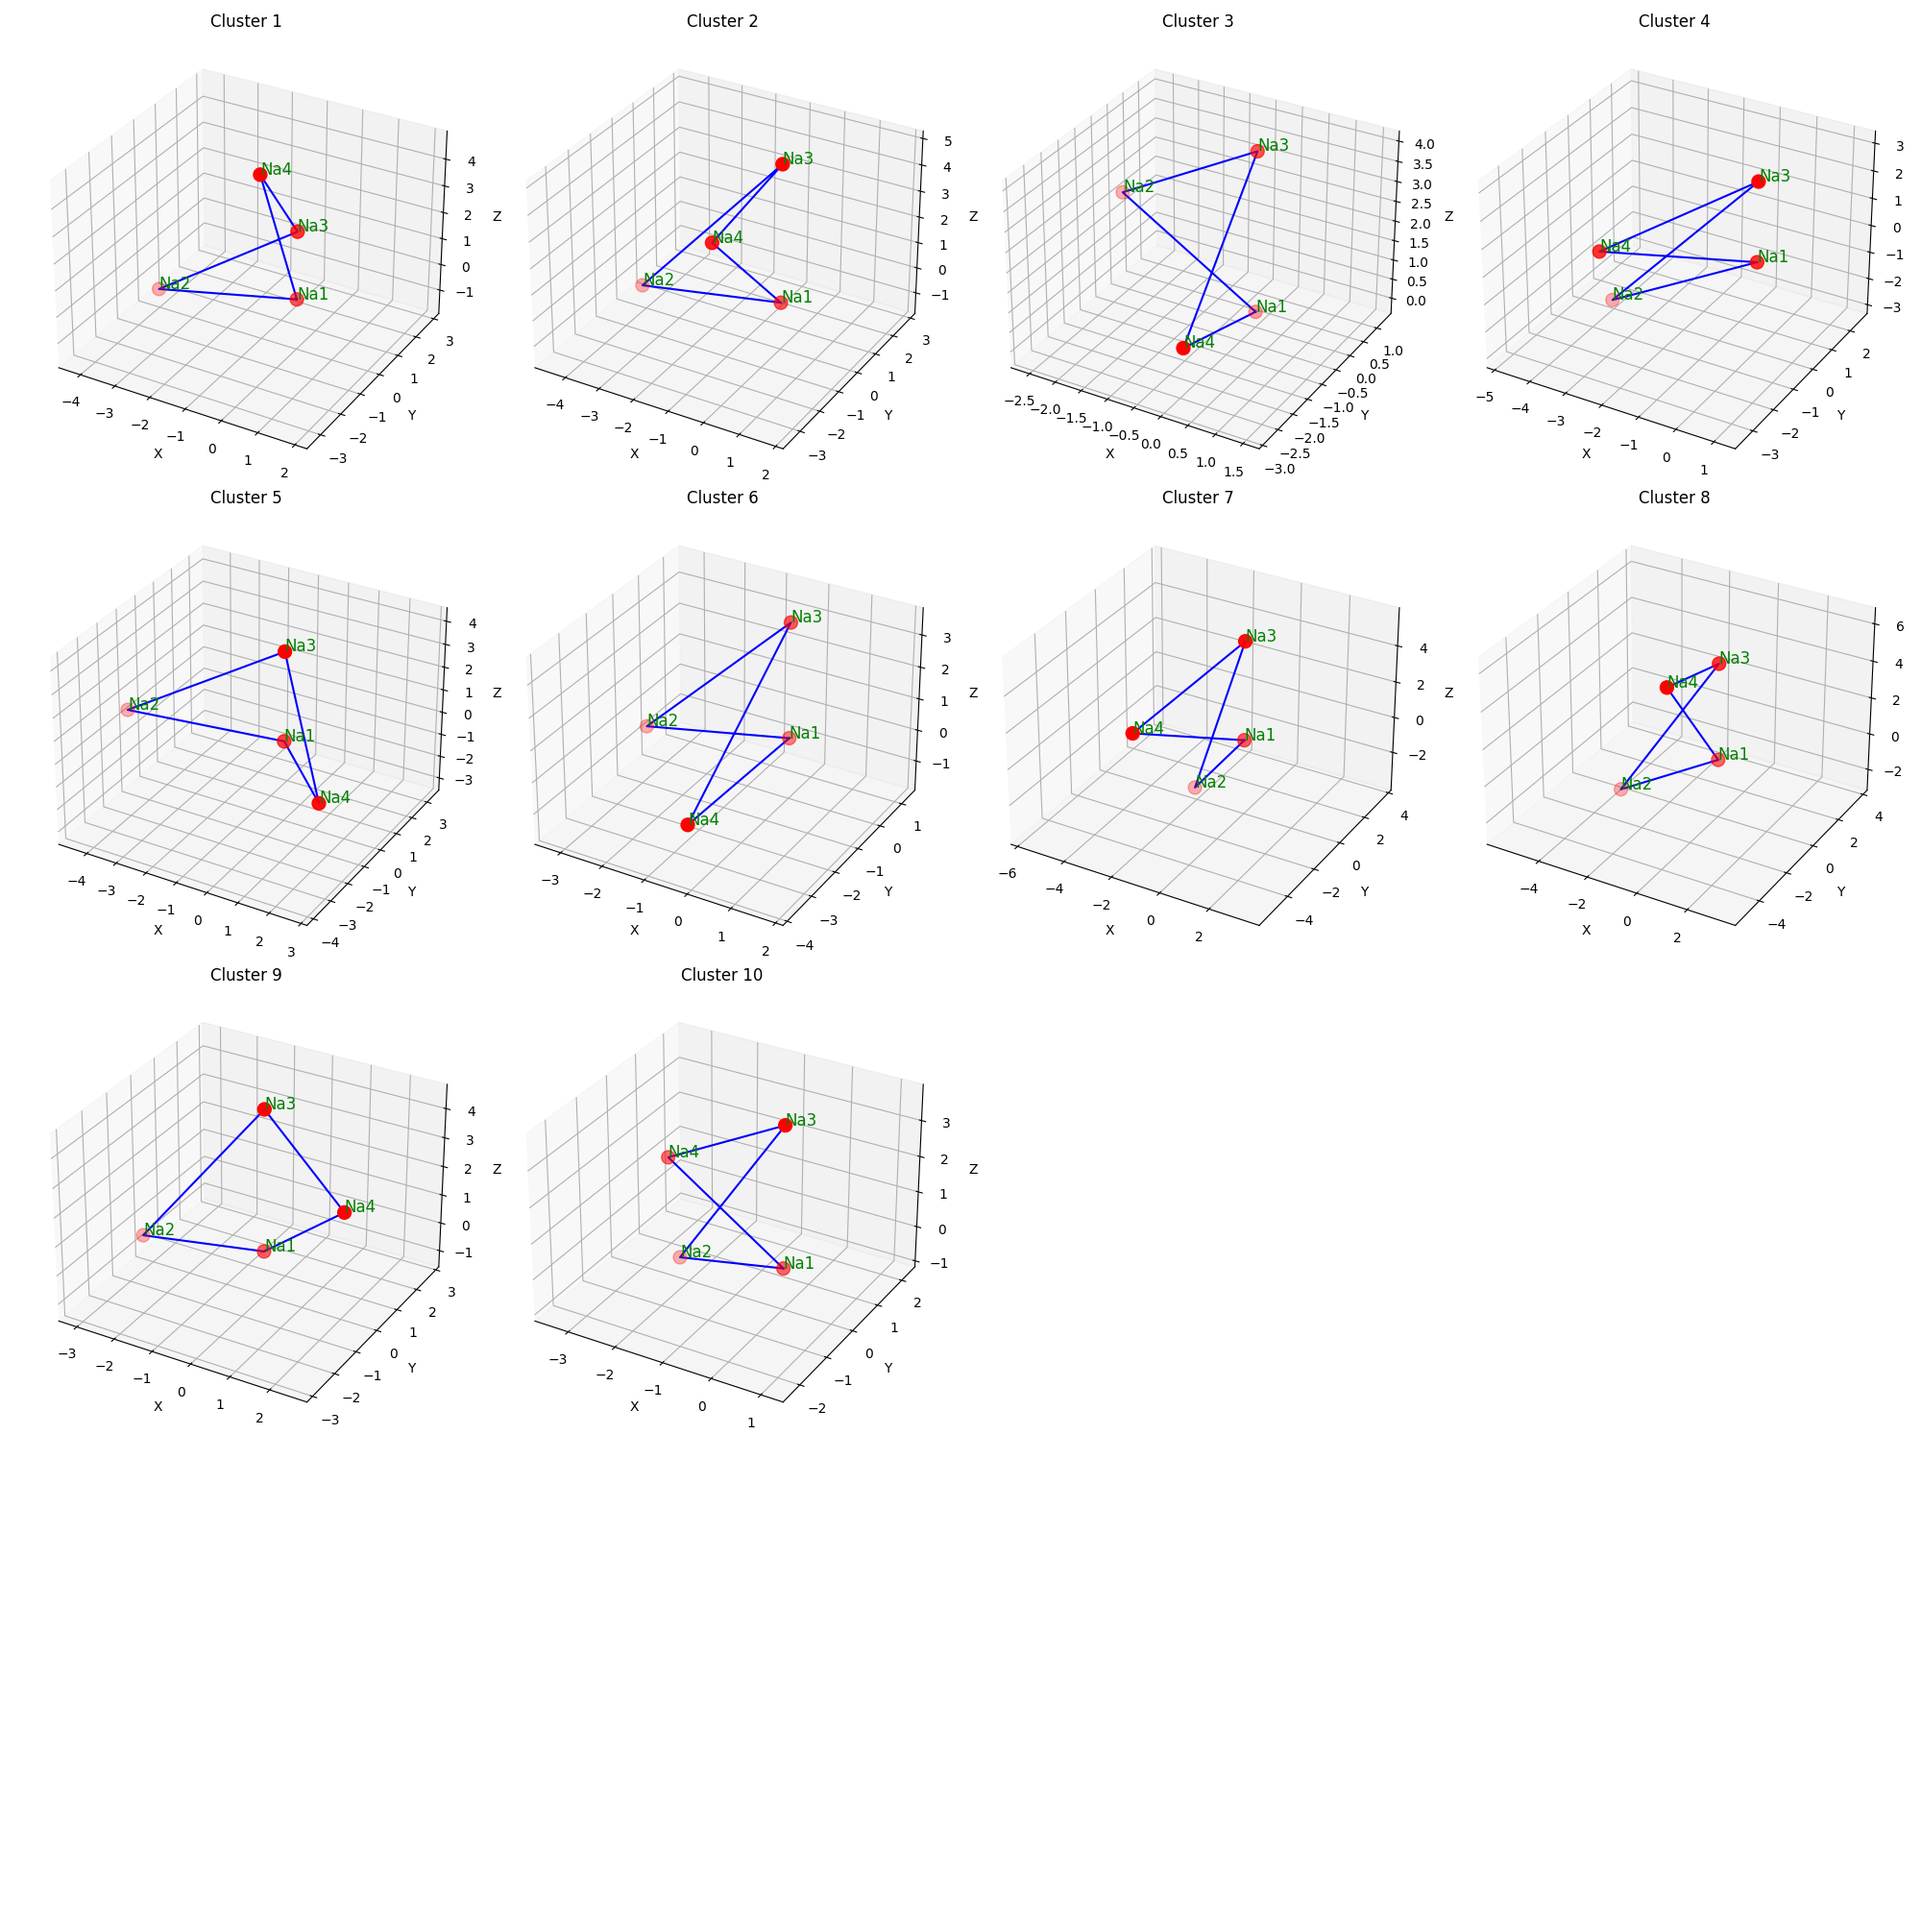
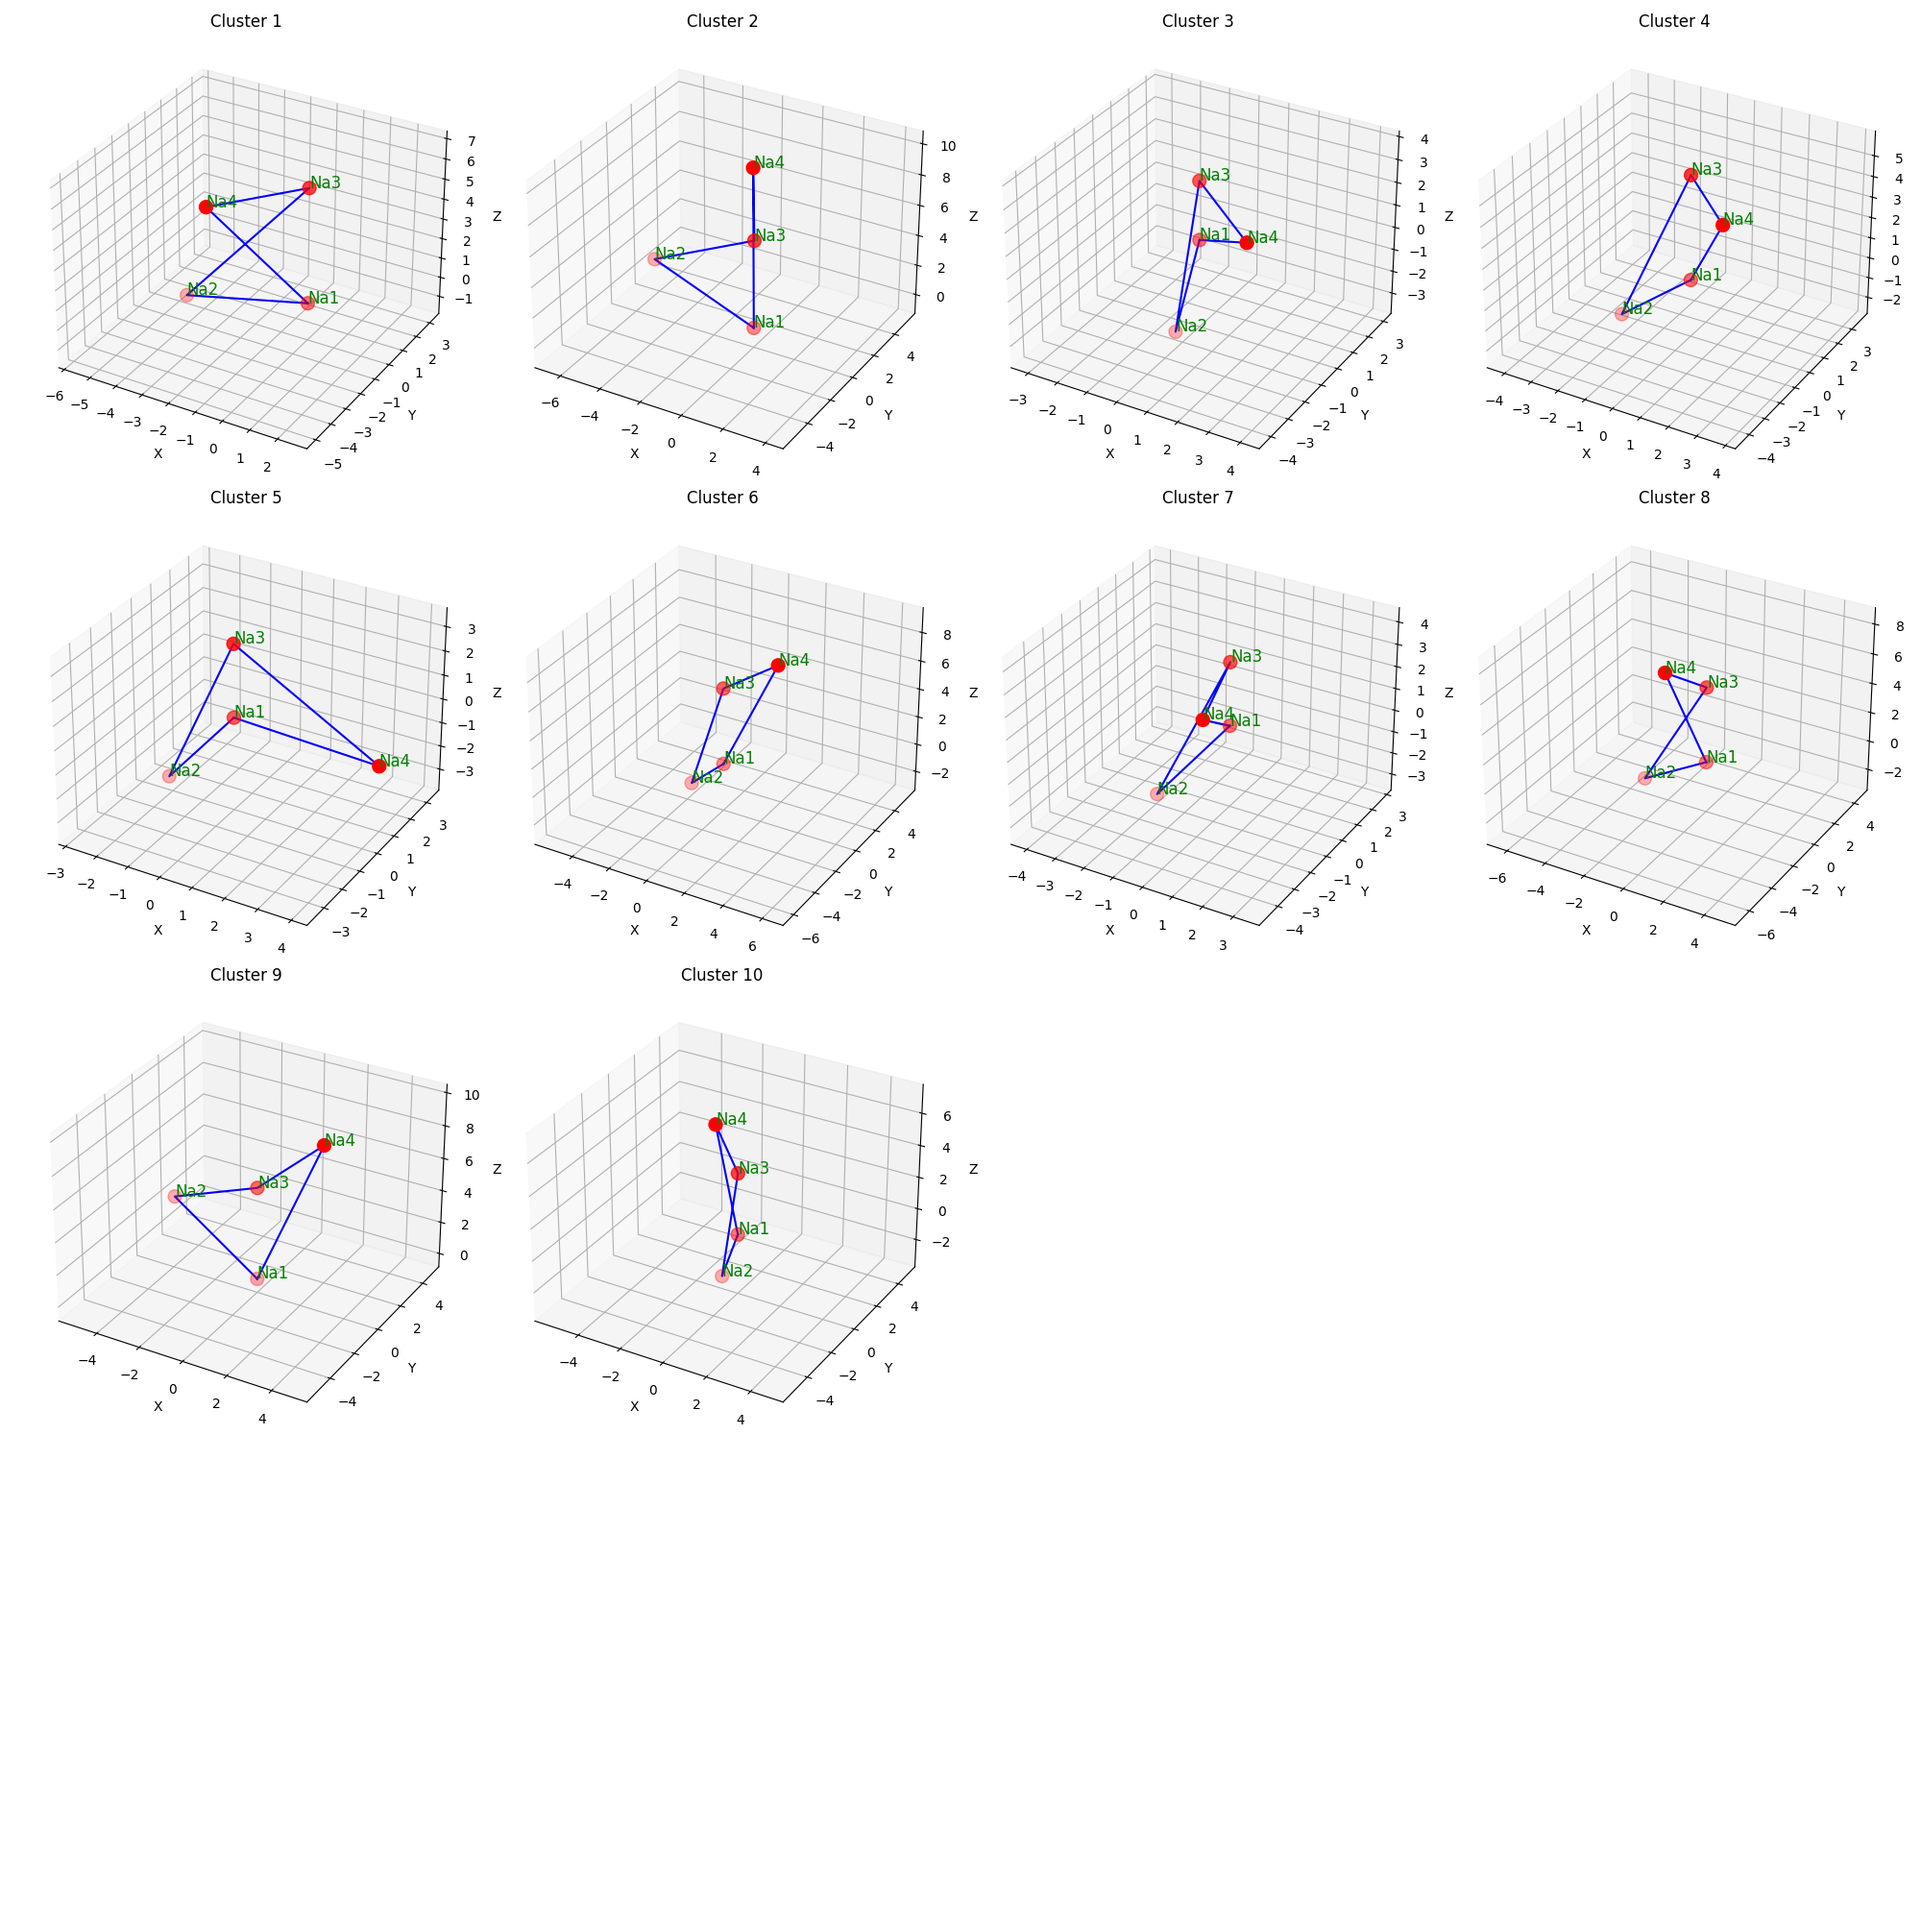
fix plot argument

diff --git a/plot_from_gaussian.py b/plot_from_gaussian.py
@@ -66,7 +66,11 @@ def _plot_molecule(ax: plt.Axes, molecule, index: int, plot_type: str) -> None:
         raise ValueError(f"Unsupported plot_type: {plot_type}")
 
     for j in range(len(x)):
-        ax.text(x[j], y[j], f"{atoms[j]}{j + 1}", color="green", fontsize=12)
+        if plot_type == "3d":
+            ax.text(x[j], y[j], z[j], f"{atoms[j]}{j + 1}", color="green", fontsize=12)
+        else:
+            ax.text(x[j], y[j], f"{atoms[j]}{j + 1}", color="green", fontsize=12)
+
     ax.set_title(f"Cluster {index+1}")
     ax.set_xlabel("X")
     ax.set_ylabel("Y")
